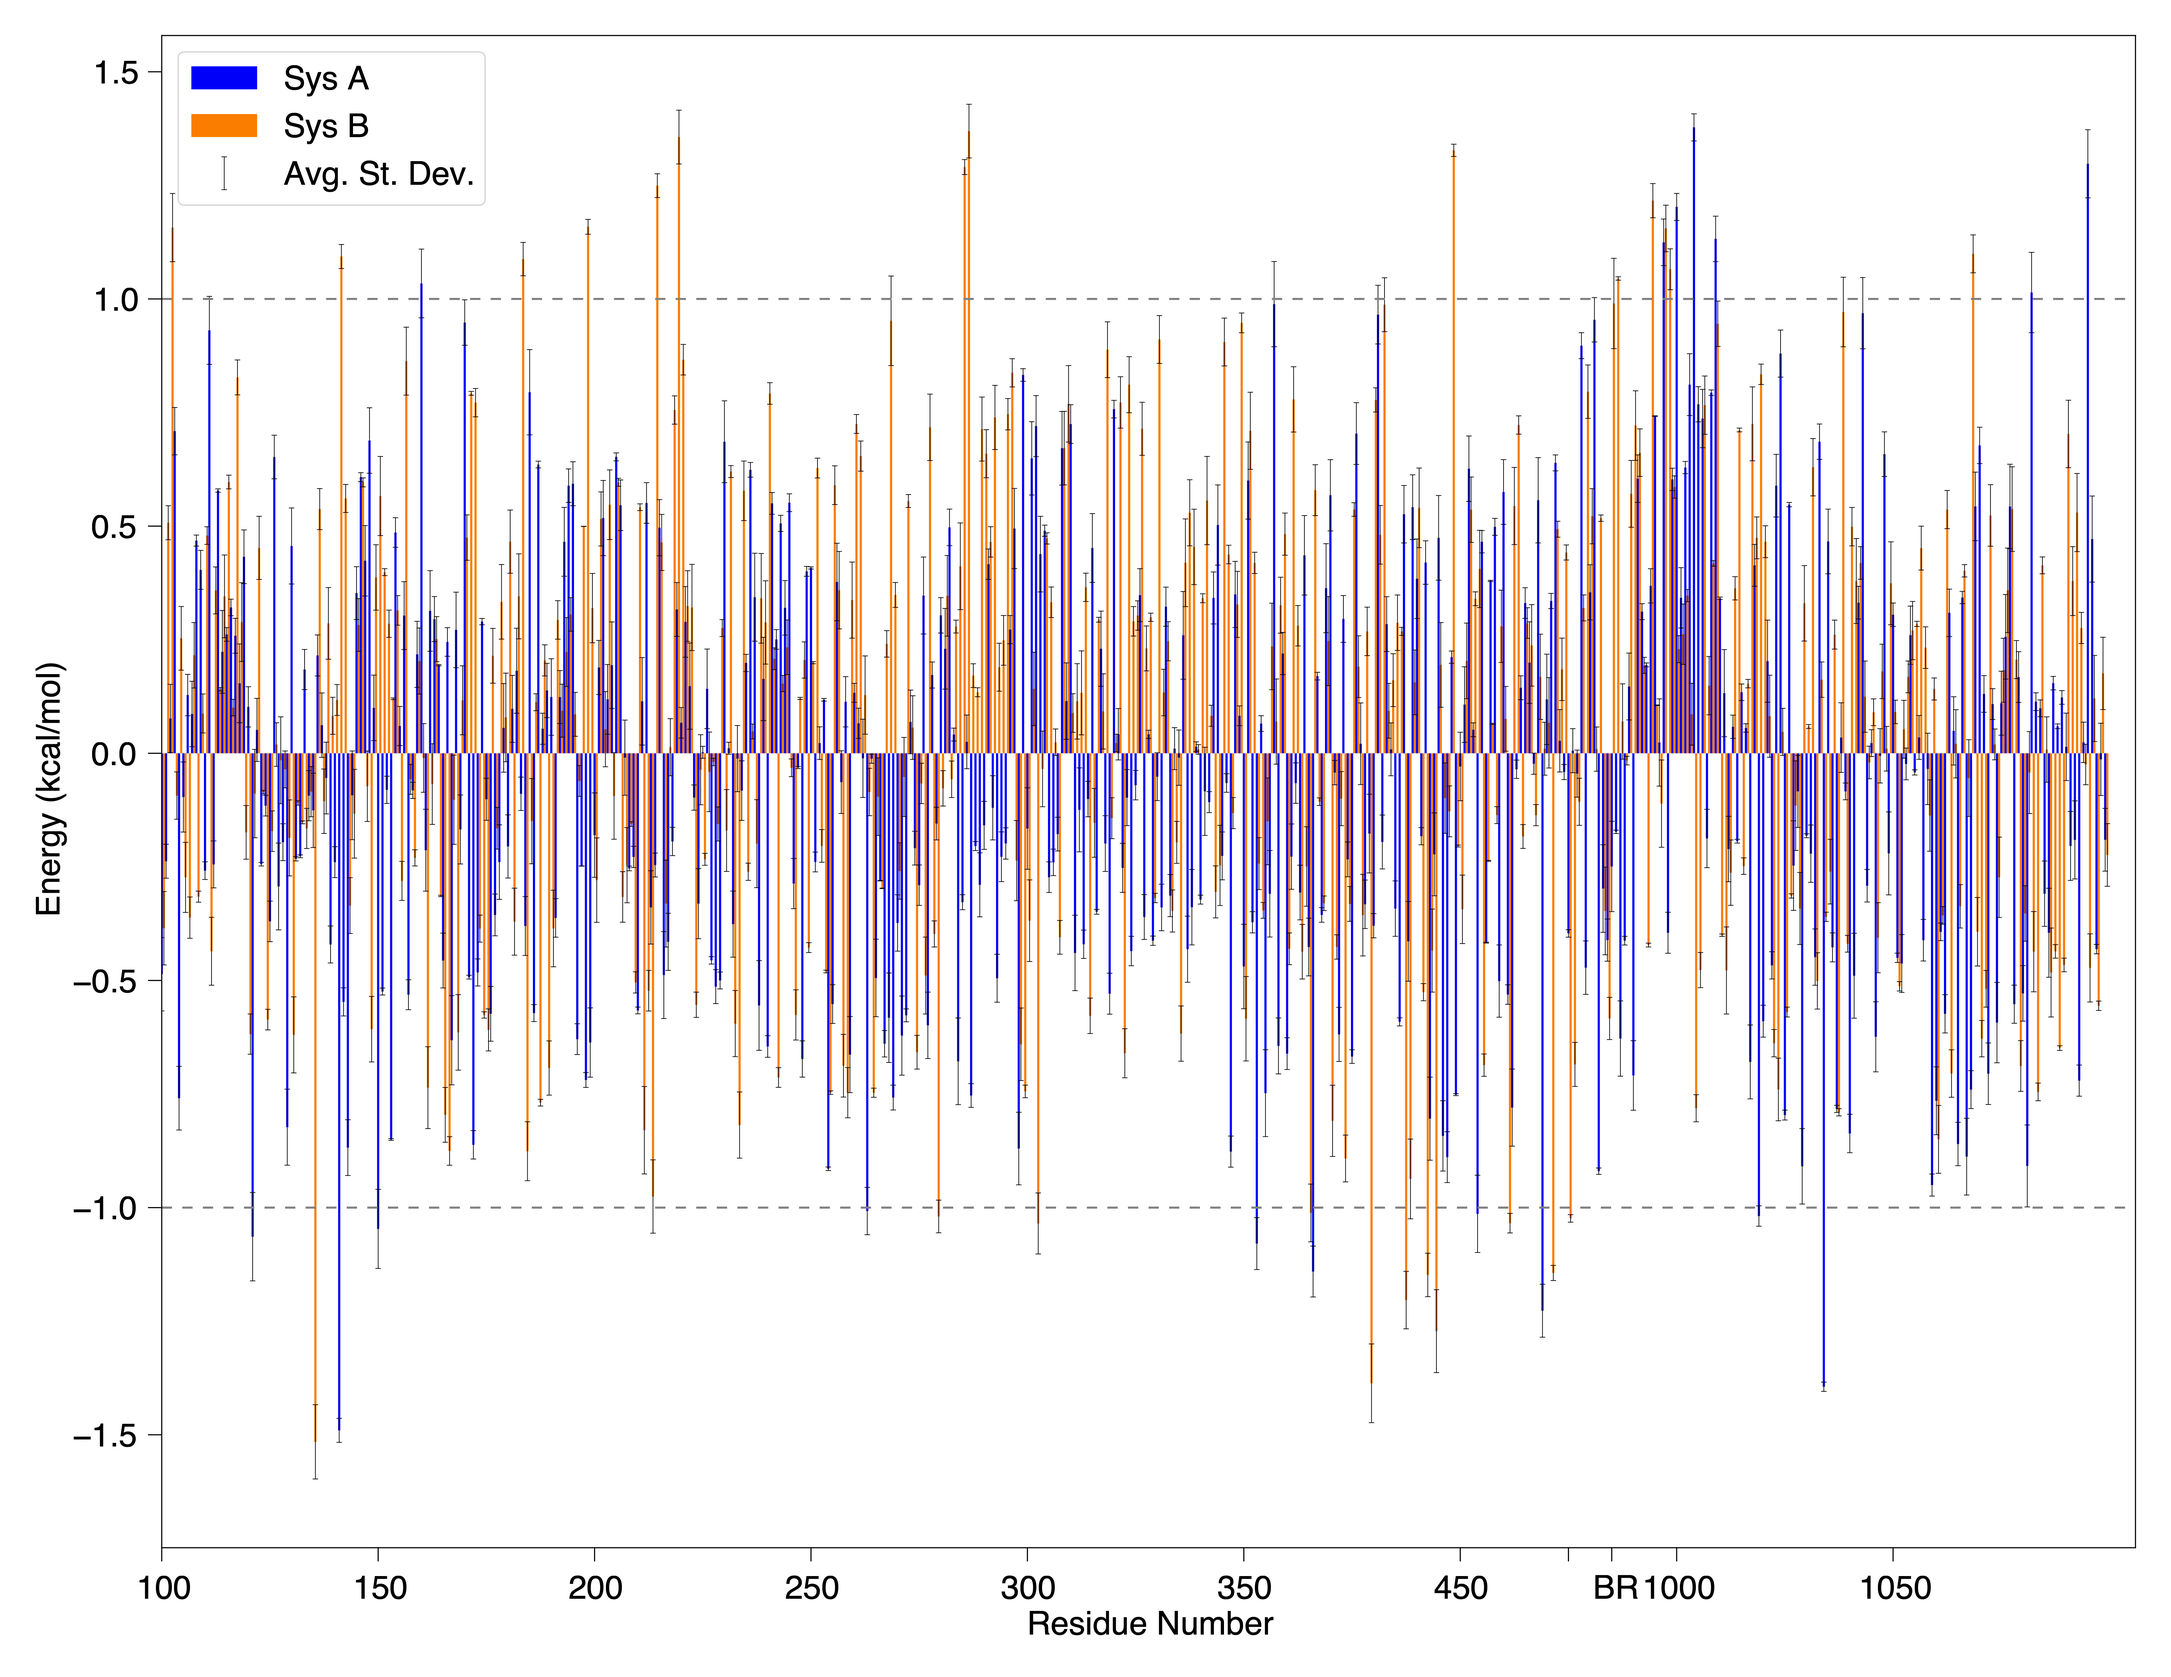
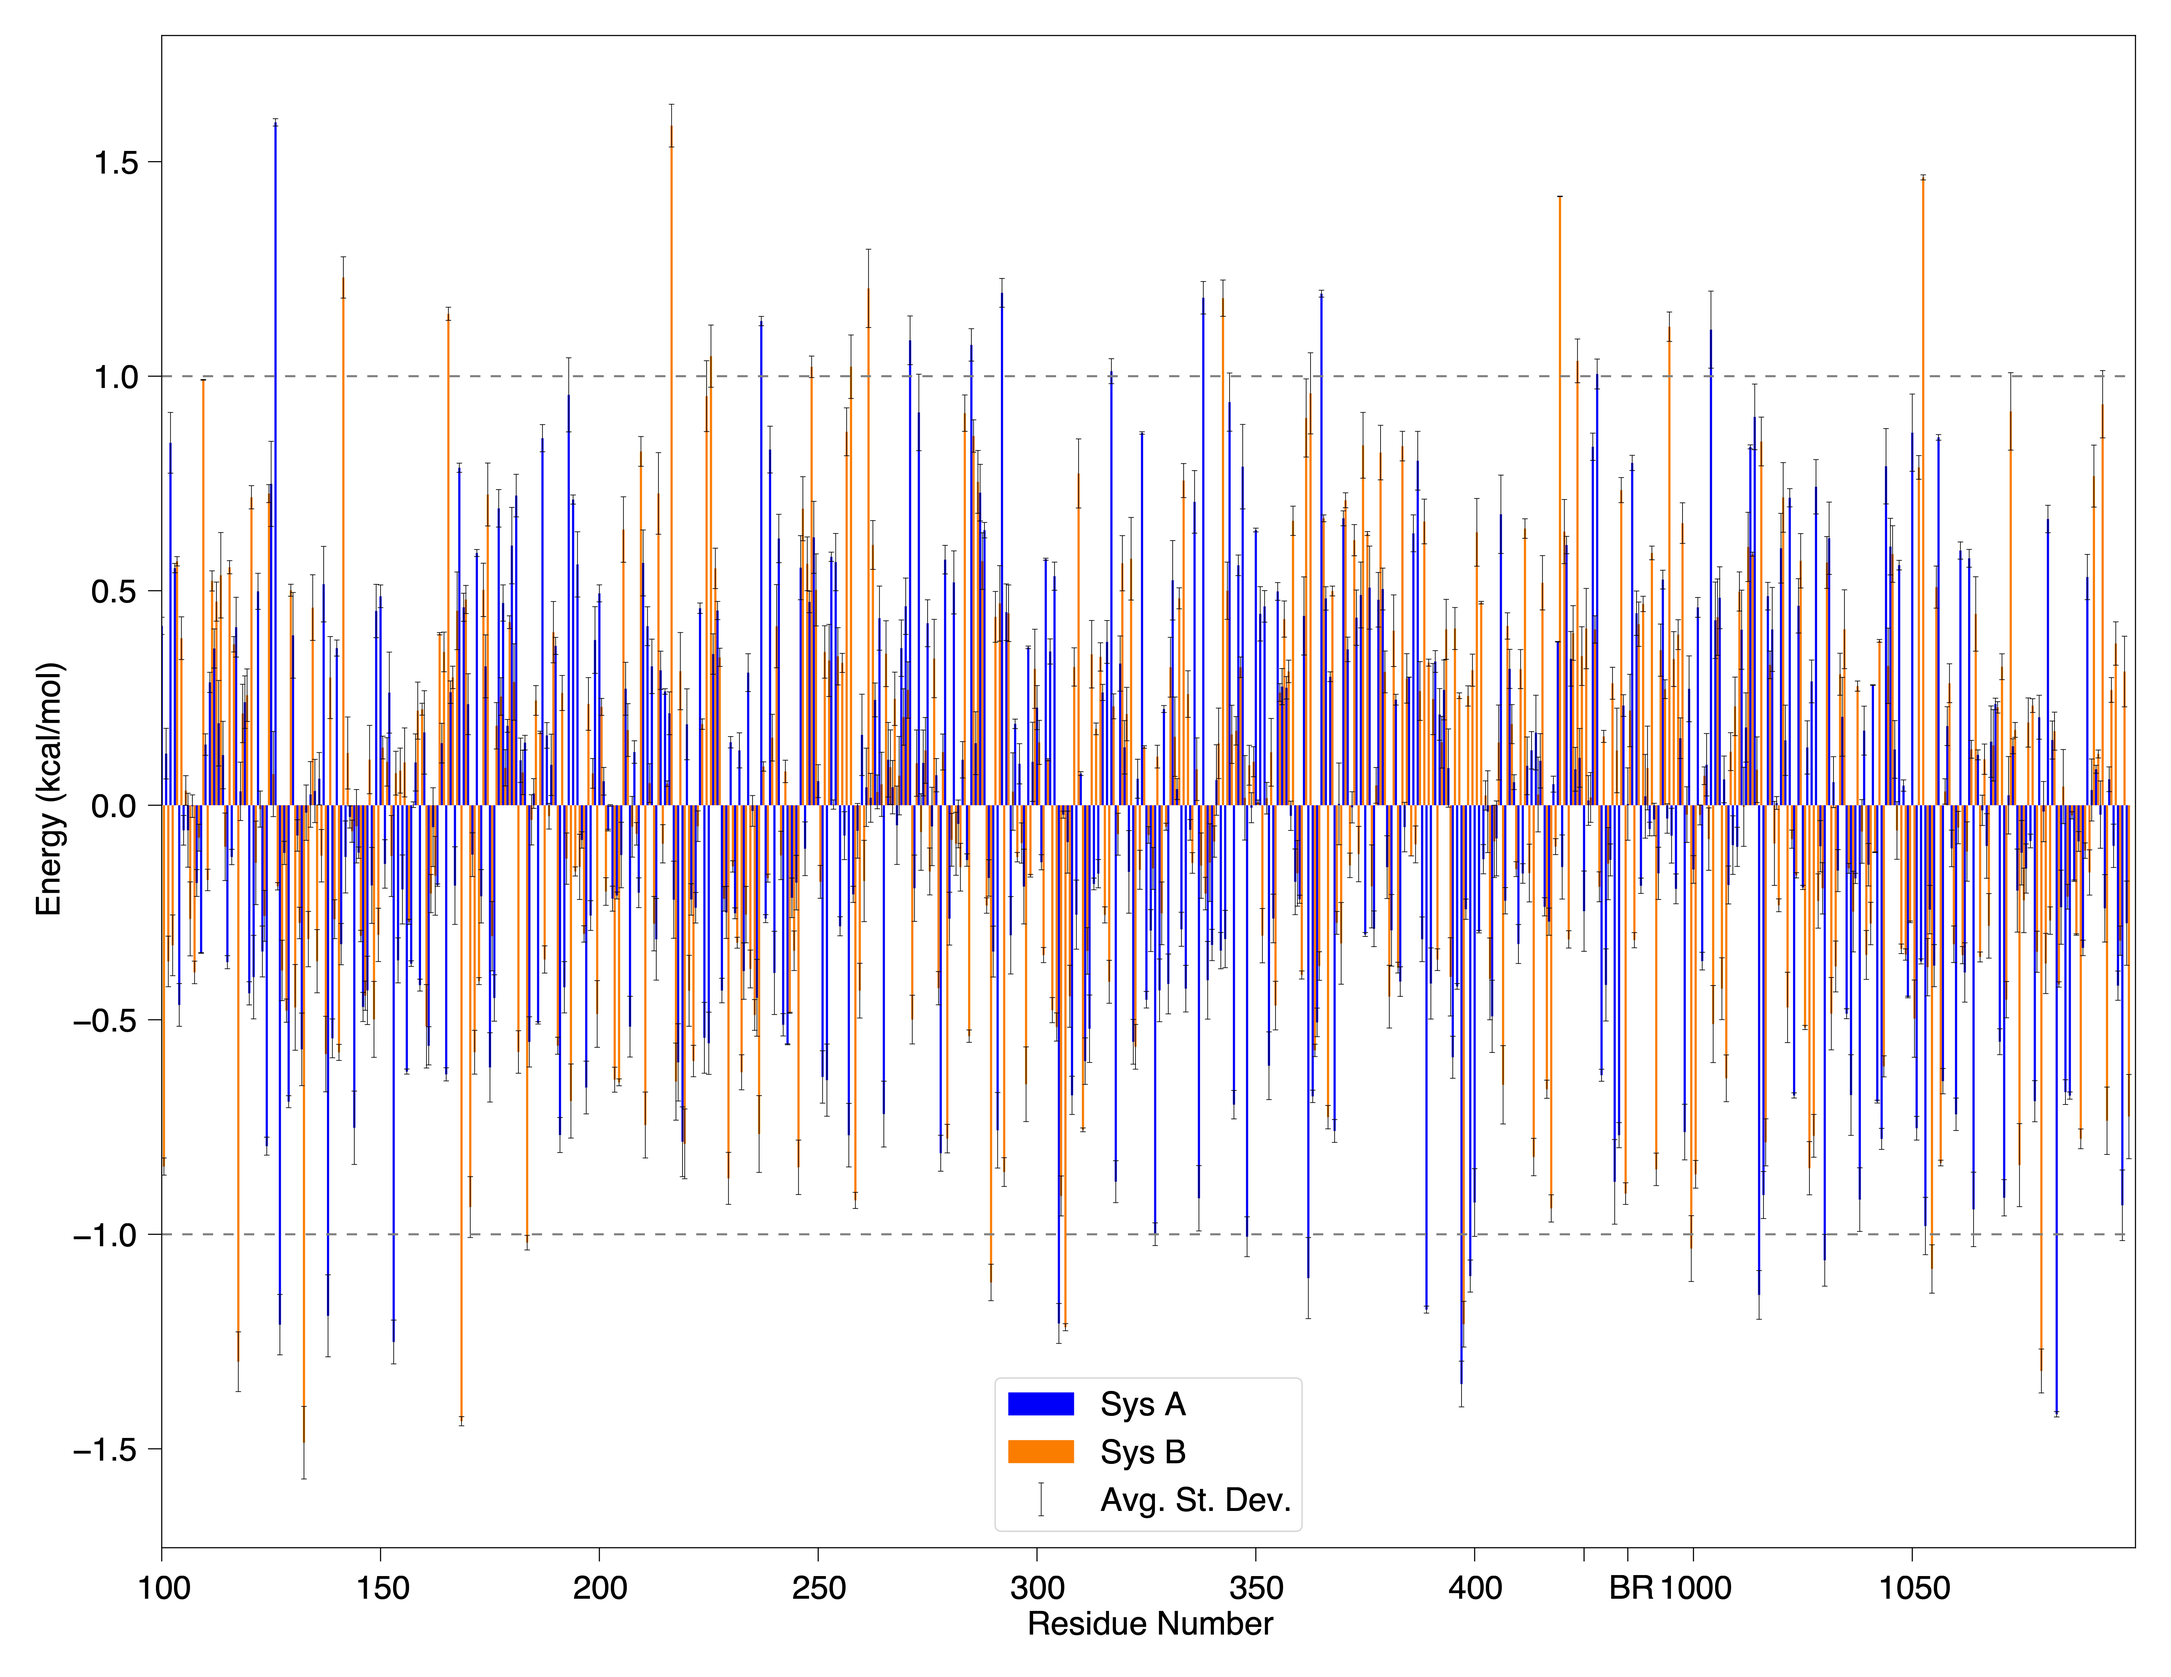
Fix x-axis in examples

diff --git a/amber-analysis/EDA/EDA-single-diff.py b/amber-analysis/EDA/EDA-single-diff.py
@@ -26,7 +26,7 @@ ROI=150
 tot_res=450
 
 ## Plot with error bars? True = yes
-error_bars=False
+error_bars=True
 
 ## Color for the barplot -- use Matplotlib color names or a hex code
 bar_color='g'
@@ -37,7 +37,7 @@ d1 = pd.read_csv('WT-MUTA_total_interaction_res220_avg.dat', \
  delim_whitespace=True, header=0)
 
 ## X-axis labels (because you need to match the biologists)
-labelsx2 = [100, 150, 200, 250, 300, 350, 450, '     BR', '', 1000, 1050]
+labelsx2 = [100, 150, 200, 250, 300, 350, 400, '     BR', '', 1000, 1050]
 ## X-axis locations
 placesx2 = [0, 50, 100, 150, 200, 250, 300, 325, 335, 350, 400]
 

diff --git a/amber-analysis/EDA/EDA-bar-comp.py b/amber-analysis/EDA/EDA-bar-comp.py
@@ -40,7 +40,7 @@ d2 = pd.read_csv('SysB_protein_system_res220_tot_avg.dat', \
  delim_whitespace=True, header=0)
 
 ## X-axis labels (because you need to match the biologists)
-labelsx2 = [100, 150, 200, 250, 300, 350, 450, '     BR', '', 1000, 1050]
+labelsx2 = [100, 150, 200, 250, 300, 350, 400, '     BR', '', 1000, 1050]
 ## X-axis locations
 placesx2 = [0, 50, 100, 150, 200, 250, 300, 325, 335, 350, 400]
 

diff --git a/amber-analysis/EDA/EDA-diffs.py b/amber-analysis/EDA/EDA-diffs.py
@@ -59,7 +59,7 @@ thresh=1
 error_bars=True
 
 ## X-axis labels (because you need to match the biologists)
-labelsx2 = [100, 150, 200, 250, 300, 350, 450, '     BR', '', 1000, 1050]
+labelsx2 = [100, 150, 200, 250, 300, 350, 400, '     BR', '', 1000, 1050]
 ## X-axis locations
 placesx2 = [0, 50, 100, 150, 200, 250, 300, 325, 335, 350, 400]
 
